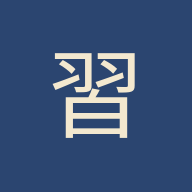
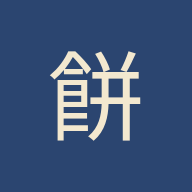
Add files via upload

Changed region(s): [[0.25, 0.25, 0.75, 0.75]]

diff --git a/index.html b/index.html
@@ -3,14 +3,14 @@
 <head>
 <meta charset="UTF-8">
 <meta name="viewport" content="width=device-width, initial-scale=1.0, maximum-scale=1, user-scalable=no">
-<title>手習い — Kana desde cero</title>
+<title>もち — Mochi, japonés desde cero</title>
 <link rel="manifest" href="manifest.json">
 <meta name="theme-color" content="#2B4570">
 <link rel="icon" href="icon-192.png">
 <link rel="apple-touch-icon" href="icon-192.png">
 <meta name="apple-mobile-web-app-capable" content="yes">
 <meta name="apple-mobile-web-app-status-bar-style" content="black-translucent">
-<meta name="apple-mobile-web-app-title" content="Tenarai">
+<meta name="apple-mobile-web-app-title" content="Mochi">
 <link rel="preconnect" href="https://fonts.googleapis.com">
 <link href="https://fonts.googleapis.com/css2?family=Shippori+Mincho:wght@500;700&family=Zen+Kaku+Gothic+New:wght@400;500;700&family=Noto+Sans+JP:wght@400;700&display=swap" rel="stylesheet">
 <style>
@@ -45,6 +45,13 @@
     font-family:'Noto Sans JP',sans-serif; font-size:14px; font-weight:700;
     transform:rotate(-3deg);
   }
+  .header-right{display:flex; align-items:center; gap:10px;}
+  .install-btn{
+    display:none; align-items:center; gap:5px; padding:7px 12px; border-radius:20px;
+    border:1px solid var(--indigo); background:var(--indigo); color:#fff;
+    font-family:inherit; font-size:12.5px; font-weight:700; cursor:pointer; white-space:nowrap;
+  }
+  .install-btn:active{opacity:.85;}
 
   main{flex:1; width:100%; max-width:480px; margin:0 auto; padding:20px; padding-bottom:90px;}
 
@@ -244,10 +251,13 @@
 
 <header>
   <div class="title">
-    <span class="jp">手習い</span>
-    <span class="sub">Tenarai · Kana</span>
+    <span class="jp">もち</span>
+    <span class="sub">Mochi · 日本語</span>
   </div>
-  <div class="seal">習</div>
+  <div class="header-right">
+    <button id="install-btn" class="install-btn">Instalar</button>
+    <div class="seal">餅</div>
+  </div>
 </header>
 
 <main>
@@ -2393,6 +2403,28 @@ window.addEventListener('resize', ()=>{
   if(ctx) setupCanvas(); renderGuide();
   if(wctx) setupWordCanvas(); renderWordGuide();
   if(kctx) setupKanjiCanvas(); renderKanjiGuide();
+});
+
+/* ---------------- PWA: botón de instalar ---------------- */
+function isStandaloneMode(){
+  return window.matchMedia('(display-mode: standalone)').matches || window.navigator.standalone === true;
+}
+let deferredInstallPrompt = null;
+const installBtn = document.getElementById('install-btn');
+window.addEventListener('beforeinstallprompt', (e)=>{
+  e.preventDefault();
+  deferredInstallPrompt = e;
+  if(!isStandaloneMode()) installBtn.style.display = 'flex';
+});
+installBtn.addEventListener('click', async ()=>{
+  if(!deferredInstallPrompt) return;
+  deferredInstallPrompt.prompt();
+  await deferredInstallPrompt.userChoice;
+  deferredInstallPrompt = null;
+  installBtn.style.display = 'none';
+});
+window.addEventListener('appinstalled', ()=>{
+  installBtn.style.display = 'none';
 });
 
 /* ---------------- PWA: service worker ---------------- */

diff --git a/sw.js b/sw.js
@@ -1,4 +1,4 @@
-const CACHE_NAME = "tenarai-cache-v13";
+const CACHE_NAME = "tenarai-cache-v14";
 const APP_SHELL = [
   "./",
   "./index.html",
